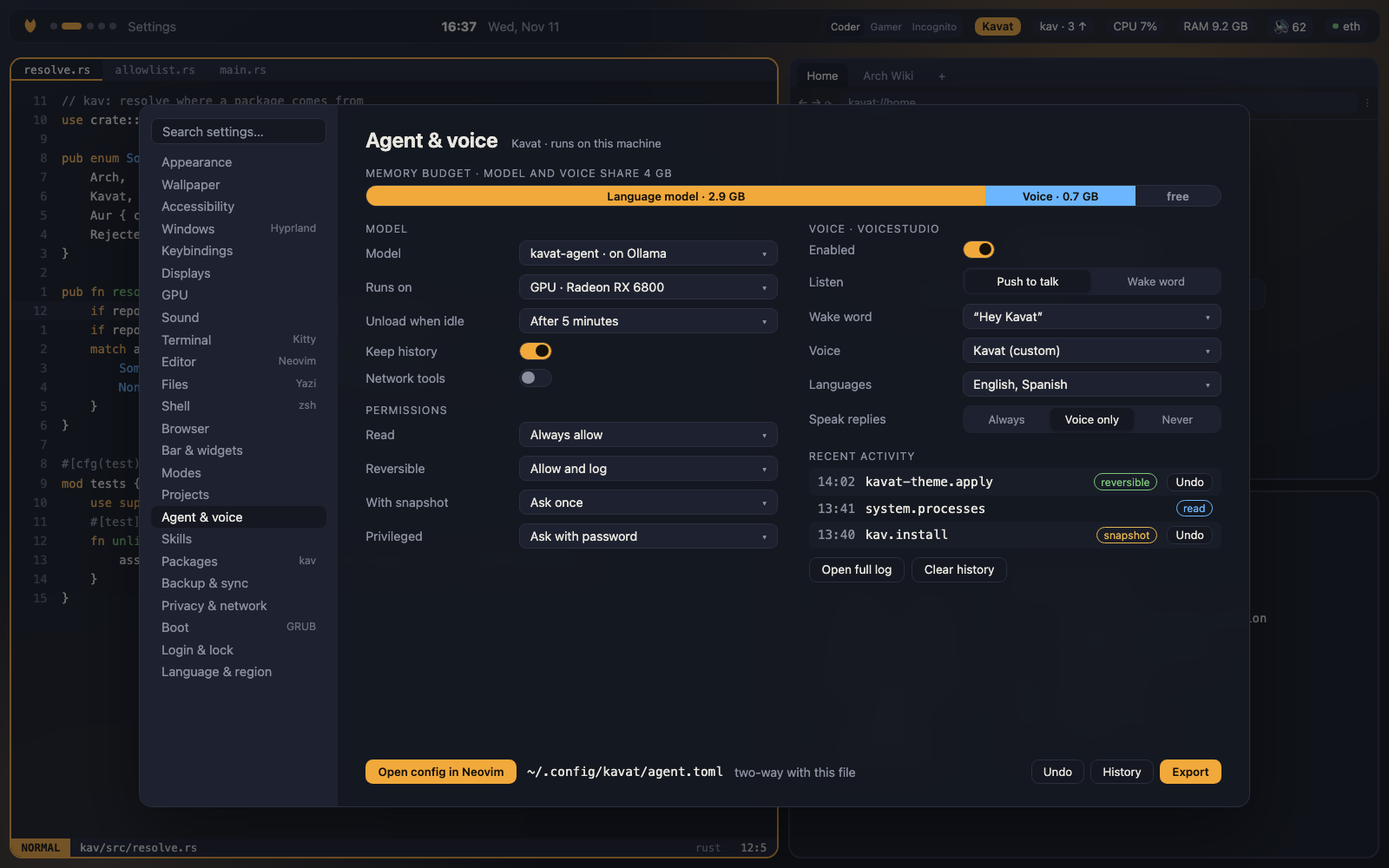
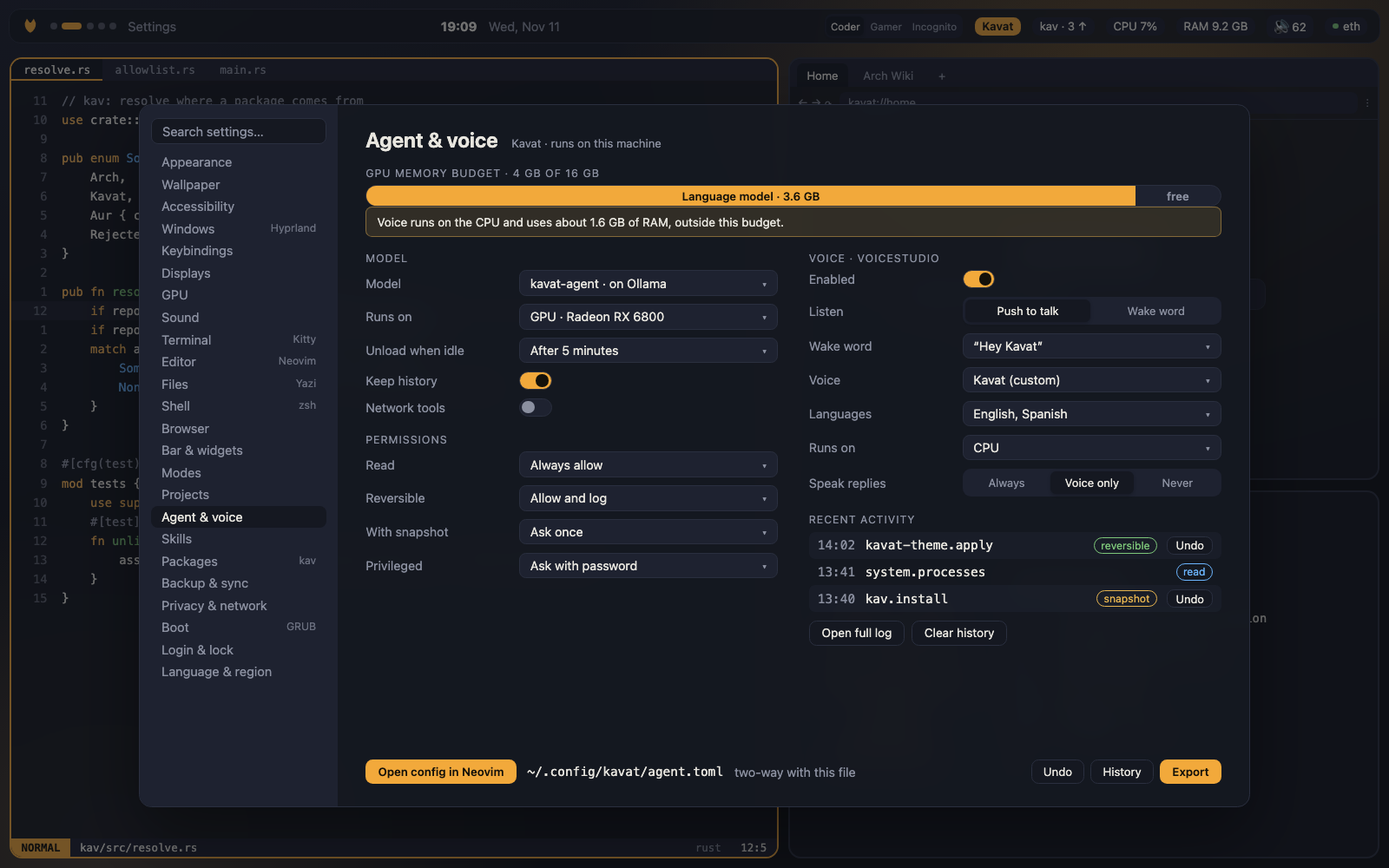
Design: fork Noctalia 5 as our own shell; the agent's 4 GB limit is GPU memory
The settings panel lives inside the shell as native pages, so kavat-shell is a
fork of Noctalia 5 and stops following upstream releases. The 4 GB budget counts
VRAM only: the model runs on the GPU, voice on the CPU, and the model proposal
moves to Qwen3.5 4B.

Changed region(s): [[0.25, 0.186, 0.9062, 0.744], [0.7812, 0.527, 0.875, 0.713], [0.8125, 0.31, 0.8438, 0.372]]

diff --git a/docs/mockup/index.html b/docs/mockup/index.html
@@ -651,7 +651,7 @@ body.bare .monitor{width:100vw;border-radius:0;box-shadow:none}
         <div class="spage" data-page="bar"><h2>Bar &amp; widgets <small>Noctalia shell</small></h2><div class="sgrid"><div class="col"><div class="blk"><div class="sec">Bar</div><div class="rows"><div class="row"><span>Position</span><div class="seg local"><button class="on">Top</button><button>Bottom</button></div></div><div class="row"><span>Floating</span><button class="tog on"></button></div><div class="row"><span>Density</span><div class="seg local"><button class="on">Compact</button><button>Normal</button></div></div><div class="row"><span>Show on</span><div class="sel"><span>All displays</span><span class="muted">▾</span></div></div></div></div><div class="blk"><div class="sec">Launcher</div><div class="rows"><div class="row"><span>Open with</span><span class="keys"><span class="kbd">Super</span><span class="kbd">D</span></span></div><div class="row"><span>Searches</span><div class="sel"><span>Apps, files, commands, Kavat</span><span class="muted">▾</span></div></div></div></div><div class="blk"><div class="sec">Notifications</div><div class="rows"><div class="row"><span>Position</span><div class="sel"><span>Top right</span><span class="muted">▾</span></div></div><div class="row"><span>Timeout</span><div class="sel"><span>5 seconds</span><span class="muted">▾</span></div></div><div class="row"><span>Silent in Gamer mode</span><button class="tog on"></button></div></div></div></div><div class="col"><div class="blk"><div class="sec">Widgets · drag to reorder</div><div class="lst"><div class="li"><span class="muted">⋮⋮</span><span class="">Workspaces</span><span class="sp"></span><span class="muted">Left</span><button class="tog on"></button></div><div class="li"><span class="muted">⋮⋮</span><span class="">Window title</span><span class="sp"></span><span class="muted">Left</span><button class="tog on"></button></div><div class="li"><span class="muted">⋮⋮</span><span class="">Clock and date</span><span class="sp"></span><span class="muted">Center</span><button class="tog on"></button></div><div class="li"><span class="muted">⋮⋮</span><span class="">Mode switcher</span><span class="sp"></span><span class="muted">Right</span><button class="tog on"></button></div><div class="li"><span class="muted">⋮⋮</span><span class="">Kavat</span><span class="sp"></span><span class="muted">Right</span><button class="tog on"></button></div><div class="li"><span class="muted">⋮⋮</span><span class="">kav updates</span><span class="sp"></span><span class="muted">Right</span><button class="tog on"></button></div><div class="li"><span class="muted">⋮⋮</span><span class="">CPU</span><span class="sp"></span><span class="muted">Right</span><button class="tog on"></button></div><div class="li"><span class="muted">⋮⋮</span><span class="">RAM</span><span class="sp"></span><span class="muted">Right</span><button class="tog on"></button></div><div class="li"><span class="muted">⋮⋮</span><span class="">GPU</span><span class="sp"></span><span class="muted">Right</span><button class="tog"></button></div><div class="li"><span class="muted">⋮⋮</span><span class="">Volume</span><span class="sp"></span><span class="muted">Right</span><button class="tog on"></button></div><div class="li"><span class="muted">⋮⋮</span><span class="">Network</span><span class="sp"></span><span class="muted">Right</span><button class="tog on"></button></div><div class="li"><span class="muted">⋮⋮</span><span class="">Recording indicator</span><span class="sp"></span><span class="muted">Right</span><button class="tog on"></button></div><div class="li"><span class="muted">⋮⋮</span><span class="">Tray</span><span class="sp"></span><span class="muted">Right</span><button class="tog"></button></div></div></div></div></div></div>
         <div class="spage" data-page="modes"><h2>Modes <small>switch from the bar or with Super+Shift+M</small></h2><div class="mcards"><div class="mcard" data-m="coder"><div class="mhead"><b>Coder</b><span class="sp"></span><button class="btn" data-sys="coder"><span class="if-off">Activate</span><span class="if-on">Active</span></button></div><span class="muted">Everyday mode</span><ul><li>Agent on</li><li>Network direct</li><li>Browser normal</li><li>All background services running</li></ul></div><div class="mcard" data-m="gamer"><div class="mhead"><b>Gamer</b><span class="sp"></span><button class="btn" data-sys="gamer"><span class="if-off">Activate</span><span class="if-on">Active</span></button></div><span class="muted">Everything for the game</span><ul><li>Agent off, model and voice unloaded</li><li>Containers, indexing and scheduled updates paused</li><li>Do not disturb</li><li>CPU on performance</li><li>Browser tabs suspended</li><li>Per-game profile applied</li><li>Live wallpaper paused</li><li>Animations stay on</li></ul></div><div class="mcard" data-m="incog"><div class="mhead"><b>Incognito</b><span class="sp"></span><button class="btn" data-sys="incog"><span class="if-off">Activate</span><span class="if-on">Active</span></button></div><span class="muted">Private session</span><ul><li>All traffic through the VPN</li><li>Kill switch if the VPN drops</li><li>Browser opens private windows</li><li>Normal windows hidden until you leave</li><li>Agent keeps no history</li><li>Clipboard and shell history paused</li></ul></div></div><div class="sgrid"><div class="col"><div class="blk"><div class="sec">Automation</div><div class="rows"><div class="row w"><span>Enter Gamer when a Steam game starts</span><button class="tog on"></button></div><div class="row w"><span>Return to Coder when it exits</span><button class="tog on"></button></div></div></div></div><div class="col"><div class="blk"><div class="sec">VPN for Incognito</div><div class="rows"><div class="row"><span>Provider</span><div class="sel"><span>Proton VPN</span><span class="muted">▾</span></div></div><div class="row"><span>Server</span><div class="sel"><span>Fastest</span><span class="muted">▾</span></div></div><div class="row"><span>Kill switch</span><button class="tog on"></button></div></div></div></div></div><div class="chips"><span class="btn">+ New mode</span><span class="btn" data-cfg="modes">Open in Neovim</span></div></div>
         <div class="spage" data-page="projects"><h2>Projects <small>a whole workspace, saved and reopened</small></h2><div class="sgrid"><div class="col"><div class="blk"><div class="sec">Your projects</div><div class="lst"><div class="li"><span class="acc">★</span><span class="">kav</span><span class="sp"></span><span class="mono muted">~/Projects/kav</span><span class="badge ok">open</span></div><div class="li"><span class="muted">☆</span><span class="">willwitcher-os</span><span class="sp"></span><span class="mono muted">~/Projects/willwitcher-os</span></div><div class="li"><span class="muted">☆</span><span class="">dotfiles</span><span class="sp"></span><span class="mono muted">~/dotfiles</span></div></div><div class="chips"><span class="btn pri">+ New from the current windows</span><span class="btn">Import</span></div></div></div><div class="col"><div class="blk"><div class="sec">kav · opens</div><div class="lst"><div class="li"><span class="muted">1</span><span class="">Kitty at ~/Projects/kav</span></div><div class="li"><span class="muted">2</span><span class="">Neovim with its last session</span></div><div class="li"><span class="muted">3</span><span class="">Kavat Browser · Coder profile · 4 tabs</span></div><div class="li"><span class="muted">4</span><span class="">Layout · editor left, terminal and browser right</span></div></div></div><div class="blk"><div class="sec">Behaviour</div><div class="rows"><div class="row"><span>Mode</span><div class="sel"><span>Coder</span><span class="muted">▾</span></div></div><div class="row"><span>Save layout on close</span><button class="tog on"></button></div><div class="row"><span>Reopen at login</span><button class="tog"></button></div></div></div></div></div></div>
-        <div class="spage" data-page="agent"><h2>Agent &amp; voice <small>Kavat · runs on this machine</small></h2><div class="blk"><div class="sec">Memory budget · model and voice share 4 GB</div><div class="budget"><i style="width:72.5%;background:var(--accent)">Language model · 2.9 GB</i><i style="width:17.5%;background:var(--info)">Voice · 0.7 GB</i><i style="flex:1;color:var(--muted)">free</i></div></div><div class="sgrid"><div class="col"><div class="blk"><div class="sec">Model</div><div class="rows"><div class="row"><span>Model</span><div class="sel"><span>kavat-agent · on Ollama</span><span class="muted">▾</span></div></div><div class="row"><span>Runs on</span><div class="sel"><span>GPU · Radeon RX 6800</span><span class="muted">▾</span></div></div><div class="row"><span>Unload when idle</span><div class="sel"><span>After 5 minutes</span><span class="muted">▾</span></div></div><div class="row"><span>Keep history</span><button class="tog on"></button></div><div class="row"><span>Network tools</span><button class="tog"></button></div></div></div><div class="blk"><div class="sec">Permissions</div><div class="rows"><div class="row"><span>Read</span><div class="sel"><span>Always allow</span><span class="muted">▾</span></div></div><div class="row"><span>Reversible</span><div class="sel"><span>Allow and log</span><span class="muted">▾</span></div></div><div class="row"><span>With snapshot</span><div class="sel"><span>Ask once</span><span class="muted">▾</span></div></div><div class="row"><span>Privileged</span><div class="sel"><span>Ask with password</span><span class="muted">▾</span></div></div></div></div></div><div class="col"><div class="blk"><div class="sec">Voice · VoiceStudio</div><div class="rows"><div class="row"><span>Enabled</span><button class="tog on"></button></div><div class="row"><span>Listen</span><div class="seg local"><button class="on">Push to talk</button><button>Wake word</button></div></div><div class="row"><span>Wake word</span><div class="sel"><span>“Hey Kavat”</span><span class="muted">▾</span></div></div><div class="row"><span>Voice</span><div class="sel"><span>Kavat (custom)</span><span class="muted">▾</span></div></div><div class="row"><span>Languages</span><div class="sel"><span>English, Spanish</span><span class="muted">▾</span></div></div><div class="row"><span>Speak replies</span><div class="seg local"><button>Always</button><button class="on">Voice only</button><button>Never</button></div></div></div></div><div class="blk"><div class="sec">Recent activity</div><div class="lst"><div class="li"><span class="mono muted">14:02</span><span class="mono ">kavat-theme.apply</span><span class="sp"></span><span class="badge ok">reversible</span><span class="btn">Undo</span></div><div class="li"><span class="mono muted">13:41</span><span class="mono ">system.processes</span><span class="sp"></span><span class="badge info">read</span></div><div class="li"><span class="mono muted">13:40</span><span class="mono ">kav.install</span><span class="sp"></span><span class="badge warn">snapshot</span><span class="btn">Undo</span></div></div><div class="chips"><span class="btn">Open full log</span><span class="btn">Clear history</span></div></div></div></div></div>
+        <div class="spage" data-page="agent"><h2>Agent &amp; voice <small>Kavat · runs on this machine</small></h2><div class="blk"><div class="sec">GPU memory budget · 4 GB of 16 GB</div><div class="budget"><i style="width:90%;background:var(--accent)">Language model · 3.6 GB</i><i style="flex:1;color:var(--muted)">free</i></div><div class="note">Voice runs on the CPU and uses about 1.6 GB of RAM, outside this budget.</div></div><div class="sgrid"><div class="col"><div class="blk"><div class="sec">Model</div><div class="rows"><div class="row"><span>Model</span><div class="sel"><span>kavat-agent · on Ollama</span><span class="muted">▾</span></div></div><div class="row"><span>Runs on</span><div class="sel"><span>GPU · Radeon RX 6800</span><span class="muted">▾</span></div></div><div class="row"><span>Unload when idle</span><div class="sel"><span>After 5 minutes</span><span class="muted">▾</span></div></div><div class="row"><span>Keep history</span><button class="tog on"></button></div><div class="row"><span>Network tools</span><button class="tog"></button></div></div></div><div class="blk"><div class="sec">Permissions</div><div class="rows"><div class="row"><span>Read</span><div class="sel"><span>Always allow</span><span class="muted">▾</span></div></div><div class="row"><span>Reversible</span><div class="sel"><span>Allow and log</span><span class="muted">▾</span></div></div><div class="row"><span>With snapshot</span><div class="sel"><span>Ask once</span><span class="muted">▾</span></div></div><div class="row"><span>Privileged</span><div class="sel"><span>Ask with password</span><span class="muted">▾</span></div></div></div></div></div><div class="col"><div class="blk"><div class="sec">Voice · VoiceStudio</div><div class="rows"><div class="row"><span>Enabled</span><button class="tog on"></button></div><div class="row"><span>Listen</span><div class="seg local"><button class="on">Push to talk</button><button>Wake word</button></div></div><div class="row"><span>Wake word</span><div class="sel"><span>“Hey Kavat”</span><span class="muted">▾</span></div></div><div class="row"><span>Voice</span><div class="sel"><span>Kavat (custom)</span><span class="muted">▾</span></div></div><div class="row"><span>Languages</span><div class="sel"><span>English, Spanish</span><span class="muted">▾</span></div></div><div class="row"><span>Runs on</span><div class="sel"><span>CPU</span><span class="muted">▾</span></div></div><div class="row"><span>Speak replies</span><div class="seg local"><button>Always</button><button class="on">Voice only</button><button>Never</button></div></div></div></div><div class="blk"><div class="sec">Recent activity</div><div class="lst"><div class="li"><span class="mono muted">14:02</span><span class="mono ">kavat-theme.apply</span><span class="sp"></span><span class="badge ok">reversible</span><span class="btn">Undo</span></div><div class="li"><span class="mono muted">13:41</span><span class="mono ">system.processes</span><span class="sp"></span><span class="badge info">read</span></div><div class="li"><span class="mono muted">13:40</span><span class="mono ">kav.install</span><span class="sp"></span><span class="badge warn">snapshot</span><span class="btn">Undo</span></div></div><div class="chips"><span class="btn">Open full log</span><span class="btn">Clear history</span></div></div></div></div></div>
         <div class="spage" data-page="skills"><h2>Skills <small>what Kavat can do with one click, one phrase or one key</small></h2><div class="sgrid"><div class="col"><div class="blk"><div class="sec">14 built in · 1 yours</div><div class="lst"><div class="li"><span class="acc">★</span><span class="">Open browser</span><span class="sp"></span><span class="keys"><span class="kbd">Super</span><span class="kbd">B</span></span><span class="badge ok">reversible</span></div><div class="li"><span class="acc">★</span><span class="">Open terminal</span><span class="sp"></span><span class="keys"><span class="kbd">Super</span><span class="kbd">Enter</span></span><span class="badge ok">reversible</span></div><div class="li"><span class="acc">★</span><span class="">Switch mode</span><span class="sp"></span><span class="keys"><span class="kbd">Super</span><span class="kbd">Shift</span><span class="kbd">M</span></span><span class="badge ok">reversible</span></div><div class="li"><span class="acc">★</span><span class="">Light / dark</span><span class="sp"></span><span class="muted">“night mode”</span><span class="badge ok">reversible</span></div><div class="li"><span class="muted">☆</span><span class="">Next wallpaper</span><span class="sp"></span><span class="muted">—</span><span class="badge ok">reversible</span></div><div class="li"><span class="muted">☆</span><span class="">Screenshot a region</span><span class="sp"></span><span class="keys"><span class="kbd">Print</span></span><span class="badge ok">reversible</span></div><div class="li"><span class="acc">★</span><span class="">Update system</span><span class="sp"></span><span class="muted">“update everything”</span><span class="badge warn">snapshot</span></div><div class="li"><span class="acc">★</span><span class="">Start stream</span><span class="badge acc">yours</span><span class="sp"></span><span class="keys"><span class="kbd">Super</span><span class="kbd">F9</span></span><span class="badge ok">reversible</span></div></div><div class="chips"><span class="btn pri">+ New skill</span><span class="btn">Save last task as skill</span><span class="btn">Import</span></div></div></div><div class="col"><div class="blk"><div class="sec">Start stream · steps</div><div class="lst"><div class="li"><span class="muted">1</span><span class="">Open OBS</span><span class="sp"></span><span class="muted">app</span></div><div class="li"><span class="muted">2</span><span class="">Switch to Gamer mode</span><span class="sp"></span><span class="muted">mode</span></div><div class="li"><span class="muted">3</span><span class="">Turn on Do not disturb</span><span class="sp"></span><span class="muted">notifications</span></div></div><div class="chips"><span class="btn">+ Add step</span><span class="btn">Try it</span></div></div><div class="blk"><div class="sec">How it runs</div><div class="rows"><div class="row"><span>Shortcut</span><span class="keys"><span class="kbd">Super</span><span class="kbd">F9</span></span></div><div class="row"><span>Voice phrase</span><div class="sel"><span>“start stream”</span><span class="muted">▾</span></div></div><div class="row"><span>Pinned to</span><div class="seg local"><button class="on">Panel</button><button>Bar</button><button>Launcher</button></div></div><div class="row"><span>Runs by itself</span><div class="sel"><span>Never</span><span class="muted">▾</span></div></div><div class="row"><span>Asks before running</span><button class="tog"></button></div></div></div><div class="blk"><div class="sec">Needs</div><div class="lst"><div class="li"><span class="mono">obs-studio</span><span class="sp"></span><span class="ok">installed · kept by kav</span></div></div></div></div></div></div>
         <div class="spage" data-page="packages"><h2>Packages <small>kav</small></h2><div class="sgrid"><div class="col"><div class="blk"><div class="sec">Sources</div><div class="lst"><div class="li"><span class="">Arch official</span><span class="sp"></span><span class="ok">always allowed</span></div><div class="li"><span class="mono ">[kavat]</span><span class="sp"></span><span class="ok">signed · always allowed</span></div><div class="li"><span class="">AUR</span><span class="sp"></span><span class="warn">allowlist only</span></div></div></div><div class="blk"><div class="sec">Updates</div><div class="rows"><div class="row"><span>Check</span><div class="sel"><span>Daily</span><span class="muted">▾</span></div></div><div class="row"><span>Install</span><div class="sel"><span>Ask me first</span><span class="muted">▾</span></div></div><div class="row"><span>Read Arch news first</span><button class="tog on lock"></button></div></div></div><div class="blk"><div class="sec">Snapshots</div><div class="rows"><div class="row"><span>Before every change</span><button class="tog on lock"></button></div><div class="row"><span>Keep bootable</span><div class="sel"><span>Last 10</span><span class="muted">▾</span></div></div></div></div></div><div class="col"><div class="blk"><div class="sec">AUR allowlist</div><div class="lst"><div class="li"><span class="mono ">visual-studio-code-bin</span><span class="sp"></span><span class="mono muted">3f9c2ab</span><span class="ok">pinned</span></div><div class="li"><span class="mono ">vesktop-bin</span><span class="sp"></span><span class="mono muted">9c2e7f1</span><span class="ok">pinned</span></div><div class="li"><span class="mono ">spotify</span><span class="sp"></span><span class="mono muted">a81d04e</span><span class="warn">upstream changed</span><span class="btn pri">Review</span></div></div></div><div class="blk"><div class="sec">Requests</div><div class="lst"><div class="li"><span class="mono ">random-package-git</span><span class="sp"></span><span class="muted">waiting for review</span><span class="btn">Review</span></div></div><div class="chips"><span class="btn">+ Request a package</span><span class="btn">Run kav doctor</span></div></div></div></div></div>
         <div class="spage" data-page="backup"><h2>Backup &amp; sync <small>your files and your configuration</small></h2><div class="sgrid"><div class="col"><div class="blk"><div class="sec">Home snapshots</div><div class="rows"><div class="row"><span>Every</span><div class="sel"><span>Hour</span><span class="muted">▾</span></div></div><div class="row"><span>Keep</span><div class="sel"><span>48 hours, then 14 days</span><span class="muted">▾</span></div></div><div class="row"><span>Browse versions in Yazi</span><button class="tog on"></button></div></div></div><div class="blk"><div class="sec">External copy</div><div class="rows"><div class="row"><span>Target</span><div class="sel"><span>USB disk “backup”</span><span class="muted">▾</span></div></div><div class="row"><span>Schedule</span><div class="sel"><span>Daily, when connected</span><span class="muted">▾</span></div></div><div class="row"><span>Encrypted</span><button class="tog on lock"></button></div><div class="row"><span>Last copy</span><span class="ok">today 03:00</span></div></div></div></div><div class="col"><div class="blk"><div class="sec">Configuration history</div><div class="rows"><div class="row"><span>Every change is a commit</span><button class="tog on lock"></button></div><div class="row"><span>Covers</span><span class="muted">panel changes and hand edits</span></div><div class="chips"><span class="btn">Open history</span></div></div></div><div class="blk"><div class="sec">Sync configuration</div><div class="rows"><div class="row"><span>Private repository</span><div class="sel"><span>Not connected</span><span class="muted">▾</span></div></div><div class="row"><span>Send</span><div class="sel"><span>After each change</span><span class="muted">▾</span></div></div><div class="chips"><span class="btn pri">Connect a repository</span></div></div></div></div></div></div>
@@ -846,7 +846,7 @@ const CFG={
   browser:['~/.config/kavat/browser/commands.toml',()=>['[[command]]','name = "hide-tabs"','run  = "ui.tabs.hide"','','[[command]]','name = "zen"','run  = ["ui.tabs.hide", "ui.toolbar.hide", "ui.sidebar.hide"]']],
   bar:['~/.config/kavat/shell.toml',()=>['[bar]','position = "top"','floating = true','widgets  = ["workspaces", "title", "clock", "modes", "kavat", "kav", "cpu", "ram", "volume", "network"]']],
   modes:['~/.config/kavat/modes/gamer.toml',()=>['name          = "Gamer"','agent         = "off"','stop          = ["docker", "indexer", "kav-update.timer"]','notifications = "silent"','cpu           = "performance"','wallpaper     = "pause"','auto = { on = "steam-game-start", off = "steam-game-exit" }']],
-  agent:['~/.config/kavat/agent.toml',()=>['model        = "kavat-agent"','memory_limit = "4GB"   # model and voice together','unload_after = "5m"','history      = true','','[voice]','enabled   = true','wake_word = "hey kavat"']],
+  agent:['~/.config/kavat/agent.toml',()=>['model        = "kavat-agent"','vram_limit   = "4GB"   # GPU memory; voice runs on the CPU','unload_after = "5m"','history      = true','','[voice]','enabled   = true','wake_word = "hey kavat"']],
   skills:['~/.config/kavat/skills/start-stream.toml',()=>['name   = "Start stream"','steps  = ["app.open obs", "mode.set gamer", "notifications.silence"]','key    = "SUPER, F9"','phrase = "start stream"','needs  = ["obs-studio"]']],
   packages:['~/.config/kavat/kav.toml',()=>['[updates]','check = "daily"','','[snapshots]','keep_bootable = 10','','[aur]','allowlist  = "~/.config/kavat/allowlist.toml"','build_jobs = "all"']],
   access:['~/.config/kavat/settings.toml',()=>['[accessibility]','reduce_motion = false','text_scale    = 1.0','high_contrast = false']],

diff --git a/docs/DESIGN.md b/docs/DESIGN.md
@@ -114,11 +114,11 @@ LightDM con web-greeter muestra un tema propio en HTML/CSS/JS que lee los mismos
 - **Varios usuarios**: selector por avatar; cada usuario ve el login con su propio tema.
 - **Bloqueo de pantalla**: mismo diseño que el login, hecho con hyprlock, para que bloquear y entrar se vean iguales.
 
-Decidido: LightDM + web-greeter con tema propio. Riesgo a vigilar: web-greeter vive en el AUR, depende de Qt WebEngine y su mantenimiento es irregular. La propuesta es hacer fork y empaquetarlo como `kavat-greeter`. El plan B es greetd con un greeter en Quickshell, que reutiliza el código de Noctalia y corre en Wayland nativo.
+Decidido: LightDM + web-greeter con tema propio. Riesgo a vigilar: web-greeter vive en el AUR, depende de Qt WebEngine y su mantenimiento es irregular. La propuesta es hacer fork y empaquetarlo como `kavat-greeter`. El plan B es greetd con el greeter del propio Noctalia, que corre en Wayland nativo.
 
 ## Escritorio
 
-Hyprland compone las ventanas y un fork de Noctalia (hecho sobre Quickshell) pone la barra, el lanzador, las notificaciones, el centro de control y el panel del agente.
+Hyprland compone las ventanas y un fork de Noctalia 5 pone la barra, el lanzador, las notificaciones, el centro de control, el panel del agente y el panel de ajustes.
 
 **Hyprland.** Decidido: no tocar el código del compositor al principio. La identidad va en un paquete `kavat-hyprland` con configuración modular y plugins; si la versión actual de Hyprland impide algo que queramos hacer, el fork del código se abre desde el día 1.
 
@@ -162,10 +162,10 @@ Atajos: 19 heredados de Endgame tal cual y 9 nuevos para lo que antes no existí
 | Menú de energía | `Super+Escape` | Nuevo |
 | Hoja de atajos | `Super+/` | Nuevo |
 
-**Noctalia.** Aquí sí hay fork de código, empaquetado como `kavat-shell`.
+**Noctalia.** Decidido: fork de Noctalia 5. Desde ese punto es nuestra app, con nuestros cambios, empaquetada como `kavat-shell`.
 
-- Parches chicos sobre cada tag de upstream, reaplicados en cada versión; lo que sea útil para todos se propone upstream para cargar menos diferencia.
-- Añadidos propios: panel del agente, selector de temas con vista previa, panel de `kav` (actualizaciones, snapshots, solicitudes de AUR) y el asistente de primer arranque.
+- Parte de Noctalia 5.4.1, escrito en C++ y con licencia MIT. No se sigue cada versión de upstream: lo que interese de ellas se trae a mano, así que la regla de reaplicar parches no vale para este fork.
+- Añadidos propios: panel de ajustes con páginas nativas, panel del agente, selector de temas con vista previa, panel de `kav` (actualizaciones, snapshots, solicitudes de AUR) y el asistente de primer arranque.
 - El motor de colores de Noctalia se sustituye o se alimenta desde los tokens del sistema, para que haya una sola fuente de verdad.
 
 **Paleta de comandos.** `Super+D` abre una sola paleta para todo el sistema: apps, archivos, ajustes, skills, paquetes, ventanas abiertas y pestañas del navegador. Usa la misma gramática y los mismos nombres de comando que la consola del navegador y la paleta de Neovim, y lo que no encuentra se lo puede pasar al agente.
@@ -523,26 +523,25 @@ Piezas:
 
 - **`kavatd`**: daemon que expone las herramientas (por D-Bus o MCP). `kav`, `kavat-theme` y `hyprctl` son las primeras. El modelo nunca recibe una shell libre.
 - **Modelo**: un Modelfile sobre un modelo base de Ollama elegido por pruebas, no por nombre. Se mide contra un conjunto de tareas reales del sistema («pon modo oscuro», «qué está usando la RAM», «instala X») y gana el más pequeño que las acierta. El ajuste fino queda para una segunda vuelta. No tiene que programar ni hacer tareas pesadas: para eso está Claude en el editor. Su trabajo es manejar el sistema. El modelo es configurable: se puede cambiar por otro desde el panel.
-- **Límite de 4 GB**: el modelo de lenguaje y los modelos de voz ocupan juntos 4 GB como máximo cargados en memoria, para que el agente conviva con un juego sin tener que cerrarlo. El reparto entre ambos se decide midiendo; los modelos de voz solo se cargan cuando la voz está activa. Se descarga de memoria tras unos minutos sin uso.
-- **Voz con VoiceStudio**: el agente escucha y habla a través de VoiceStudio, que corre en local y ofrece dictado, transcripción, síntesis y clonación de voz por una API local y por MCP. kavatd lo usa como servicio: lo que dices se transcribe, pasa al modelo y la respuesta se sintetiza con una voz propia de Kavat. Se empaqueta como kavat-voice; su licencia es AGPL-3.0, sin problema para uso personal. Sus modelos cuentan dentro del límite de 4 GB, así que se eligen los motores de voz más ligeros que den buena calidad.
+- **Límite de 4 GB**: el agente ocupa como máximo 4 GB de la memoria de la GPU, para que conviva con un juego sin tener que cerrarlo. El modelo de lenguaje corre en la GPU, que es donde se nota la velocidad. La voz corre en la CPU: sus motores ligeros son de CPU, y ahí ya reconocen varias veces más rápido que el tiempo real. Usa entre 1 y 2,5 GB de RAM, que no cuentan en el límite, y sus modelos solo se cargan cuando la voz está activa. Se descarga de memoria tras unos minutos sin uso.
+- **Voz con VoiceStudio**: el agente escucha y habla a través de VoiceStudio, que corre en local y ofrece dictado, transcripción, síntesis y clonación de voz por una API local y por MCP. kavatd lo usa como servicio: lo que dices se transcribe, pasa al modelo y la respuesta se sintetiza con una voz propia de Kavat. Se empaqueta como kavat-voice; su licencia es AGPL-3.0, sin problema para uso personal. Sus motores corren en la CPU y no gastan memoria de la GPU; aun así se eligen los más ligeros que den buena calidad.
 - **Interfaz**: panel en Noctalia con `Super+Space`, y `kavat ask "..."` en el terminal.
 - **Contexto del sistema**: el agente conoce la documentación de Willwitcher-OS, tus atajos y tu configuración, así que contesta sobre tu máquina, no sobre Linux en general.
 - **Registro**: cada llamada a una herramienta queda en un log legible con qué pidió, qué hizo y cómo deshacerlo.
 - **Sin red**: el agente funciona sin conexión y no envía nada fuera. Cualquier herramienta que use red se activa aparte.
 
-**Análisis del modelo.** En noviembre de 2026 se compararon los modelos pequeños de Ollama para este trabajo. Lo que sigue es una propuesta: ningún modelo se ha ejecutado todavía en la máquina real. El informe completo, con sus fuentes, está en [`reports/Modelo local para el agente Kavat.md`](../reports/Modelo%20local%20para%20el%20agente%20Kavat.md).
+**Análisis del modelo.** En noviembre de 2026 se compararon los modelos pequeños de Ollama para este trabajo. Lo que sigue es una propuesta: ningún modelo se ha ejecutado todavía en la máquina real. El informe completo, con sus fuentes, está en [`reports/Modelo local para el agente Kavat.md`](../reports/Modelo%20local%20para%20el%20agente%20Kavat.md); como el límite es de memoria de la GPU, vale su apartado «Si el límite contara solo la VRAM».
 
 | Pieza | Propuesta | Dónde corre | Memoria |
 | --- | --- | --- | --- |
-| Modelo de lenguaje | LFM3 1.7B de Liquid AI (`lfm3:1.7b-q4_K_M`) | GPU | 1,4 a 1,5 GB |
-| Reconocimiento de voz | Parakeet TDT v3, dentro de VoiceStudio | CPU | 1 a 1,5 GB, estimado |
-| Síntesis de voz | Supertonic-3, dentro de VoiceStudio | CPU | 0,4 a 0,5 GB, estimado |
-| VoiceStudio en sí |  | CPU | 0,5 GB |
-| Total |  |  | 3,3 a 4,0 GB |
+| Modelo de lenguaje | Qwen3.5 4B (`qwen3.5:4b-q4_K_M`) | GPU | 3,3 GB de descarga; cargado, cerca de 4 GB de VRAM, sin medir |
+| Reconocimiento de voz | Parakeet TDT v3, dentro de VoiceStudio | CPU | 1 a 1,5 GB de RAM, estimado |
+| Síntesis de voz | Supertonic-3, dentro de VoiceStudio | CPU | 0,4 a 0,5 GB de RAM, estimado |
+| VoiceStudio en sí |  | CPU | 0,5 GB de RAM |
 
-- **Por qué LFM3 1.7B**: es el único modelo de 2026 hecho para agentes con herramientas que cabe con margen junto a una voz buena en inglés y español. Es provisional: sus notas son del fabricante y lleva dos semanas disponible en Linux.
-- **Alternativas, por orden**: Qwen3.5 2B, Qwen3 1.7B (el único de su tamaño medido por terceros) y Bonsai 2 4B.
-- **El mejor medido no cabe**: Qwen3.5 4B es el modelo pequeño con mejores pruebas independientes, pero no cabe junto a la voz en 4 GB. Cabría si el límite contara solo la memoria de la GPU.
+- **Por qué Qwen3.5 4B**: es el modelo pequeño con mejores pruebas independientes: 87 % en el banco de pruebas de Home Assistant, que es el proyecto más parecido a este, y 97,5 % en otra prueba de 40 casos.
+- **Cabe justo**: su memoria cargada no está medida. De sus 3,3 GB, 0,7 son un proyector de visión que el agente no usa, y no se sabe si Ollama lo carga. Si no entra en 4 GB, se acorta el contexto o se pasa a una alternativa.
+- **Alternativas, por orden**: Ministral 3 3B (80 % en el mismo banco), Qwen3 4B Instruct (75 %; es el que Home Assistant usa por defecto) y LFM3 1.7B, que ocupa 1,5 GB pero solo tiene notas del fabricante.
 - **Cómo se confirma**: con la prueba que este documento ya pedía, ahora con números: unos 240 casos propios en inglés y español, cuatro veces por candidato, midiendo aciertos, latencia y memoria con un juego abierto.
 - **El modelo pequeño necesita ayuda del diseño**: el informe propone enseñarle de cinco a ocho herramientas por petición en lugar de todas, usar nombres en inglés por dentro, y que una skill de varios pasos sea una sola llamada que ejecuta `kavatd`. Las frases exactas que no pasan por el modelo ya están en el diseño.
 
@@ -680,11 +679,11 @@ La fase 1 usa Hyprland y Noctalia tal como vienen; los forks y la identidad entr
 
 ## Decisiones en revisión
 
-El análisis de Omarchy y de otras distros encontró ocho hechos de 2026 que tocan decisiones ya escritas en este documento. Todos tienen ya respuesta; del shell solo queda decidir dónde vive el panel de ajustes. La columna Estado lo resume. El informe completo, con sus fuentes, está en [`reports/Ideas de otras distros Linux.md`](../reports/Ideas%20de%20otras%20distros%20Linux.md).
+El análisis de Omarchy y de otras distros encontró ocho hechos de 2026 que tocan decisiones ya escritas en este documento. Todos tienen ya respuesta; la columna Estado lo resume. El informe completo, con sus fuentes, está en [`reports/Ideas de otras distros Linux.md`](../reports/Ideas%20de%20otras%20distros%20Linux.md).
 
 | # | Decisión que toca | Qué se encontró | Estado |
 | --- | --- | --- | --- |
-| 1 | Shell: fork de Noctalia sobre Quickshell | Noctalia congeló su versión en Quickshell (v4) en abril de 2026, y la v5 es una reescritura en C++ sin Qt, con plugins en Luau | Evaluado: Noctalia 5 permite lo que queremos sin fork, con plugins propios, salvo el panel de ajustes, que no cabe en su ventana de ajustes. Falta decidir dónde vive ese panel; el detalle está debajo de la tabla |
+| 1 | Shell: fork de Noctalia sobre Quickshell | Noctalia congeló su versión en Quickshell (v4) en abril de 2026, y la v5 es una reescritura en C++ sin Qt, con plugins en Luau | Decidido: fork de Noctalia 5, empaquetado como kavat-shell; desde ese punto es nuestra app. La evaluación mostró que casi todo cabía con plugins, pero el panel de ajustes no; con el fork queda dentro. El detalle está debajo de la tabla |
 | 2 | Configuración de Hyprland en archivos que el panel edita línea a línea | Desde Hyprland 0.55 la configuración es Lua y el formato anterior está obsoleto | Decidido: se usa Lua; el panel escribe una tabla de valores que el Lua del sistema carga |
 | 3 | LUKS2 con desbloqueo por TPM2, arrancando con GRUB | mkinitcpio 42 (septiembre de 2026) cambia las mediciones del TPM y obliga a reinscribirlo. Además, según documenta CachyOS, GRUB solo descifra `/boot` con LUKS1 o PBKDF2 | En parte: la reinscripción será una intervención guiada de `kav update`. Dónde vive el kernel de cada snapshot se ve en la fase 2 |
 | 4 | Secure Boot con llaves propias | El nuevo anti-cheat de Epic para Linux (EAC v2, anunciado en octubre de 2026) pediría un arranque firmado con llaves que Epic reconozca. Es fuente secundaria y aún no está desplegado | Cerrado sin cambios: se mantienen las llaves propias y no se añade nada. Un juego que exija ese anti-cheat no funcionará |
@@ -714,10 +713,10 @@ Los dos ajustes menores que señalaba el informe tampoco se aplican: la VPN de I
 
 Lo que se desprende:
 
-- **No hace falta fork.** Lo que el diseño llama `kavat-shell` puede ser Noctalia tal como viene más un conjunto de plugins y configuración nuestros. El fork serían unas 360 000 líneas de C++ que sacan versión casi cada semana, y el propio proyecto manda los paneles extra a plugins.
-- **Pendiente: dónde vive el panel de ajustes.** Hay tres caminos. Una aplicación propia que se abre desde la barra, el lanzador o un atajo y usa el mismo tema; es la recomendación. Un panel hecho como plugin, con los límites de la tabla; la página Keybindings sería la más afectada. O el fork, para tener páginas nativas dentro de su ventana.
-- **Versión fijada.** La interfaz de plugins cambió trece veces en ocho semanas y el proyecto no promete estabilidad. El repositorio `[kavat]` fija la versión de Noctalia y solo la sube cuando nuestros plugins pasan las pruebas.
-- **Un solo dueño de los ajustes.** La ventana de ajustes de Noctalia sigue existiendo y escribe su propio archivo. En la fase 3 se decide si se oculta o si nuestro panel la refleja.
+- **Decidido: fork.** Para que el panel de ajustes quede dentro del shell, con páginas nativas, se hace fork de Noctalia 5. Desde ese punto `kavat-shell` es nuestra app, con nuestros cambios.
+- **Lo demás de la tabla sigue valiendo.** Lo que ya viene se aprovecha tal cual. Lo que pedía un plugin propio se puede hacer como plugin o directamente en el código, según convenga en cada caso.
+- **El coste.** Son unas 360 000 líneas de C++, y upstream saca versión casi cada semana. No se sigue ese ritmo: se parte de la 5.4.1 y se trae a mano lo que interese.
+- **Un solo dueño de los ajustes.** La ventana de ajustes pasa a ser la nuestra, así que ya no hay dos sitios que escriban la configuración.
 
 ## Ideas de otras distros
 
@@ -742,7 +741,7 @@ Las decisiones de esta tabla están tomadas; las que el análisis de otras distr
 | --- | --- |
 | Compilación de la ISO | En tu PC de escritorio con Arch |
 | Máquina objetivo | Escritorio con AMD Radeon RX 6800 de 16 GB de VRAM |
-| Límite del agente | Agente y voz, 4 GB en total; quedan 12 GB de VRAM para juegos aun con el agente cargado |
+| Límite del agente | El agente ocupa como máximo 4 GB de VRAM; quedan 12 GB para juegos aun con él cargado. La voz corre en la CPU y usa RAM aparte |
 | Alcance | Solo para ti |
 | Idioma | Inglés por defecto; español preinstalado como segunda opción |
 | Menú de arranque | GRUB con menú propio y tema del sistema, configurable desde Noctalia |
@@ -765,7 +764,8 @@ Las decisiones de esta tabla están tomadas; las que el análisis de otras distr
 | Modos del sistema | Coder, Gamer e Incognito, seleccionables desde Noctalia |
 | Ventanas al entrar en Incognito | Las normales se ocultan y vuelven al salir |
 | Juego y hardware | Perfil por juego, página de GPU, luces que siguen al tema y supresión de ruido del micrófono |
-| Ajustes | Todo el núcleo se configura desde un panel en Noctalia |
+| Ajustes | Todo el núcleo se configura desde un panel dentro del shell, con páginas nativas |
+| Shell | Fork de Noctalia 5, empaquetado como kavat-shell: es nuestra app desde ahora, con nuestros cambios y con el panel de ajustes dentro |
 | Configuración | El archivo de configuración es la verdad y la calle es de doble sentido: el panel lo lee y lo edita, y un botón lo abre en Neovim desde cualquier parte |
 | Validación | Todo cambio de configuración se comprueba antes de aplicarse y vuelve atrás solo si falla |
 | Robustez | Comprobación tras actualizar, snapshots de `/home`, copias externas, e historial y sincronización de la configuración |
@@ -808,7 +808,7 @@ Estos supuestos del diseño no son decisiones: se confirman al implementar, y si
 | El cortafuegos por aplicación no estorba a Steam ni a los juegos | 3 |
 | Los snapshots horarios de `/home` no degradan el disco ni la CPU | 3 |
 | El perfil de sandbox del navegador no debilita el sandbox propio de Chromium | 3 |
-| Ollama y los motores de voz aceleran bien en la RX 6800 | 4 |
+| Ollama acelera bien en la RX 6800, el modelo elegido cabe cargado en 4 GB de VRAM y la voz va sobrada en la CPU | 4 |
 | Modelo y voz caben juntos en 4 GB con calidad aceptable | 4 |
 | El agente distingue de forma fiable lo que lee de lo que tú le pides | 4 |
 

diff --git a/README.md b/README.md
@@ -44,7 +44,7 @@ The mockup is a single HTML file with no dependencies: open [`docs/mockup/index.
 | ![Login](docs/screenshots/login.png) **Login.** LightDM with its own theme, over your blurred wallpaper. | ![The agent](docs/screenshots/agent.png) **Kavat.** The agent, its clickable skills, and every tool it uses with its permission level. |
 | ![Light theme](docs/screenshots/themes-light.png) **Themes.** Palette, mode, accent and shape, live. | ![Wallpapers](docs/screenshots/settings-wallpaper.png) **Wallpapers.** Image or video, from the settings panel. |
 | ![Modes](docs/screenshots/settings-modes.png) **Modes.** Coder, Gamer and Incognito. | ![Skills](docs/screenshots/settings-skills.png) **Skills.** What the agent does with one click, one phrase or one key. |
-| ![Agent and voice](docs/screenshots/settings-agent.png) **Agent and voice.** Model and voice share 4 GB. | ![kav](docs/screenshots/kav-dashboard.png) **`kav`.** The package manager, as a TUI. |
+| ![Agent and voice](docs/screenshots/settings-agent.png) **Agent and voice.** At most 4 GB of the GPU. | ![kav](docs/screenshots/kav-dashboard.png) **`kav`.** The package manager, as a TUI. |
 | ![AUR review](docs/screenshots/kav-aur-review.png) **AUR review.** The diff, with the suspicious lines flagged. | ![Editor](docs/screenshots/editor-marketplace.png) **Editor.** Neovim with a plugin marketplace. |
 | ![Browser](docs/screenshots/browser.png) **Browser.** Command console and the agent's side panel. | ![Installer](docs/screenshots/installer.png) **Installer.** Calamares, appearance step. |
 | ![Claude panel](docs/screenshots/claude-panel.png) **Claude beside the code.** A Kitty split next to Neovim; edits arrive as diffs. | ![Copy pop-up](docs/screenshots/files-copy.png) **Copying you can see.** Progress and name conflicts, in a pop-up. |
@@ -72,7 +72,7 @@ The mockup is a single HTML file with no dependencies: open [`docs/mockup/index.
 
 **Kavat**, the agent, runs on your machine. No cloud, no account, no telemetry. It is a compact model on Ollama, tuned for this system and only this system: it knows your shortcuts, your packages, your configuration and the OS documentation. It understands English and Spanish. Its job is running the system, not writing code: that is what Claude in the editor is for. The model can be swapped for another from the settings panel.
 
-- **It fits next to a game.** Model and voice share 4 GB at most, and unload from memory when you are not using them.
+- **It fits next to a game.** The agent takes at most 4 GB of the GPU's memory and unloads when you are not using it. Its voice runs on the CPU.
 - **It has a voice.** It listens and speaks through VoiceStudio, also locally.
 - **It has no shell.** It talks to `kavatd`, a daemon of typed tools with four permission levels. Reading is free. Changing a theme is free and logged. Installing something asks first and takes a snapshot. Touching disks, users or the network asks for your password.
 - **It cannot grant itself permissions**, and everything it does can be undone.
@@ -320,6 +320,6 @@ This README describes the finished system. Today the project is in **phase 0, de
 | 3 | Themes, settings, greeter, Noctalia fork, `kav` and editor | Pending |
 | 4 | Local agent, skills and voice | Pending |
 
-A study of Omarchy and other distributions reopened eight of those decisions. All are now answered. The current Noctalia was read against what this shell needs: it can host it through plugins, without a fork, except for the settings panel, whose home is the one point still to decide. They are listed, with their status, in the design document under «Decisiones en revisión».
+A study of Omarchy and other distributions reopened eight of those decisions. All are now answered. The current Noctalia was read against what this shell needs: plugins could host almost all of it, but not the settings panel, so the shell is a fork of Noctalia 5 and from that point on it is this system's own application. They are listed, with their status, in the design document under «Decisiones en revisión».
 
 The design also takes several assumptions for granted that have not been tested. They are listed, with the phase in which each gets verified, at the end of the [design document](docs/DESIGN.md#decisiones).
